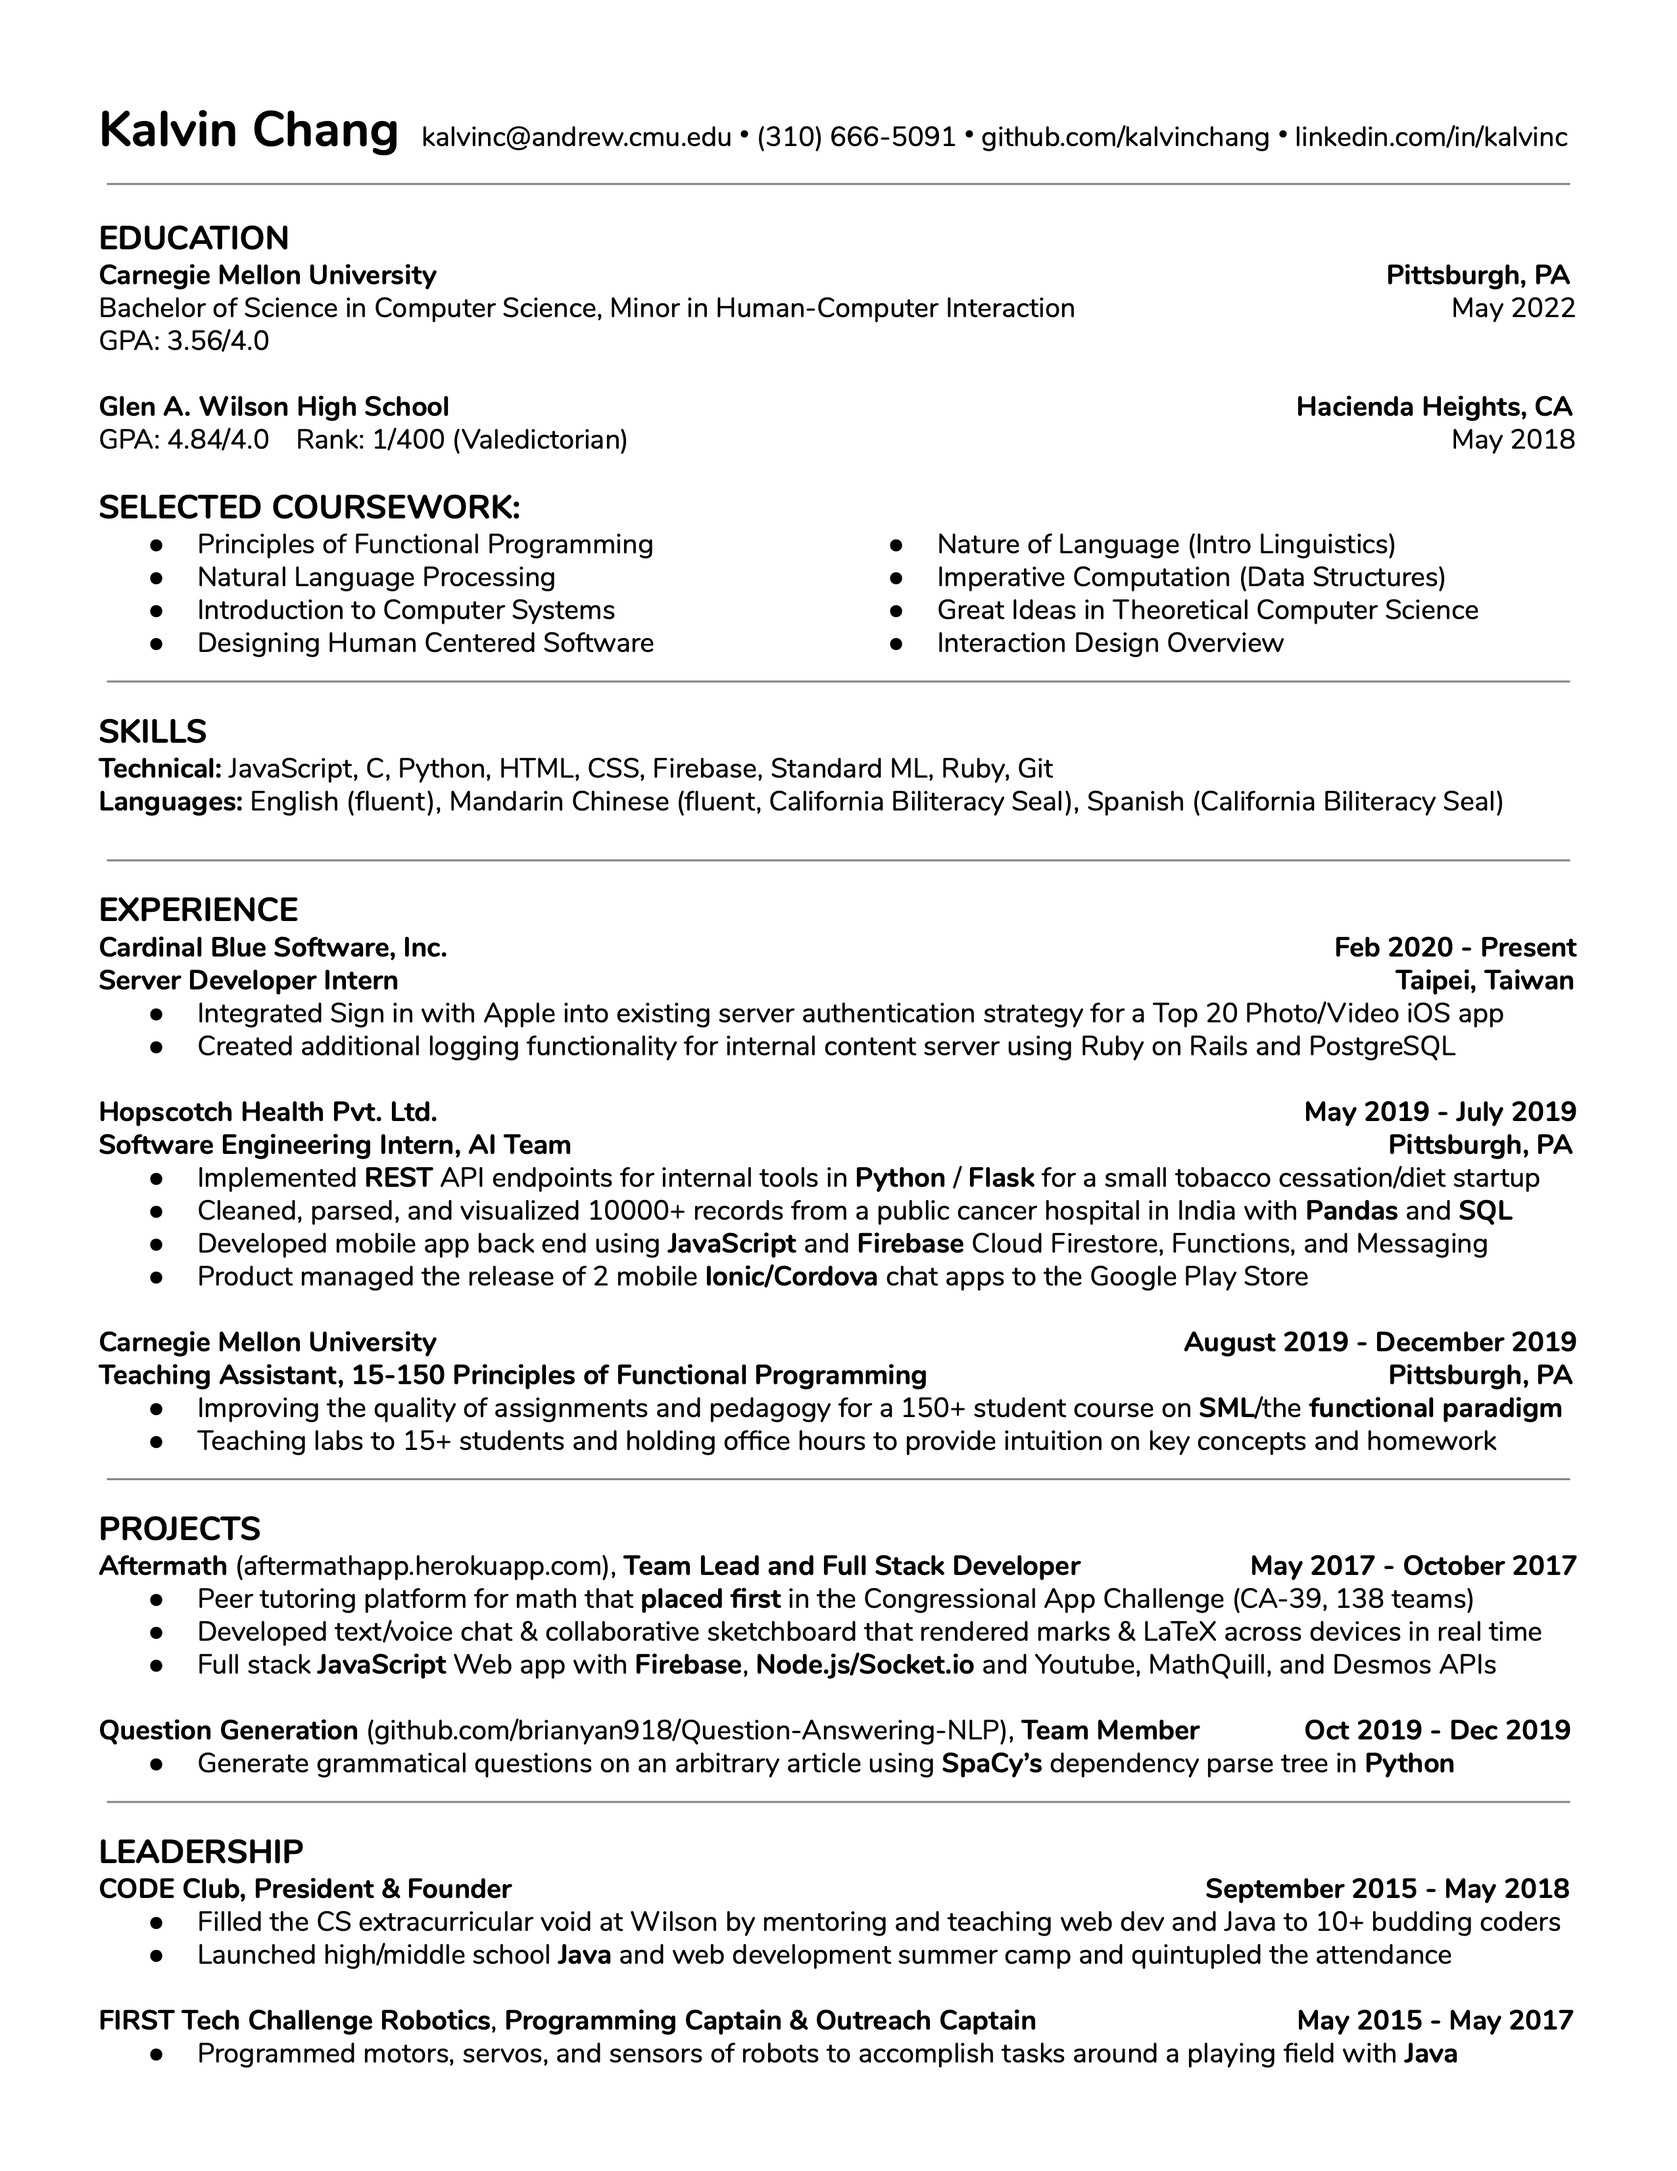
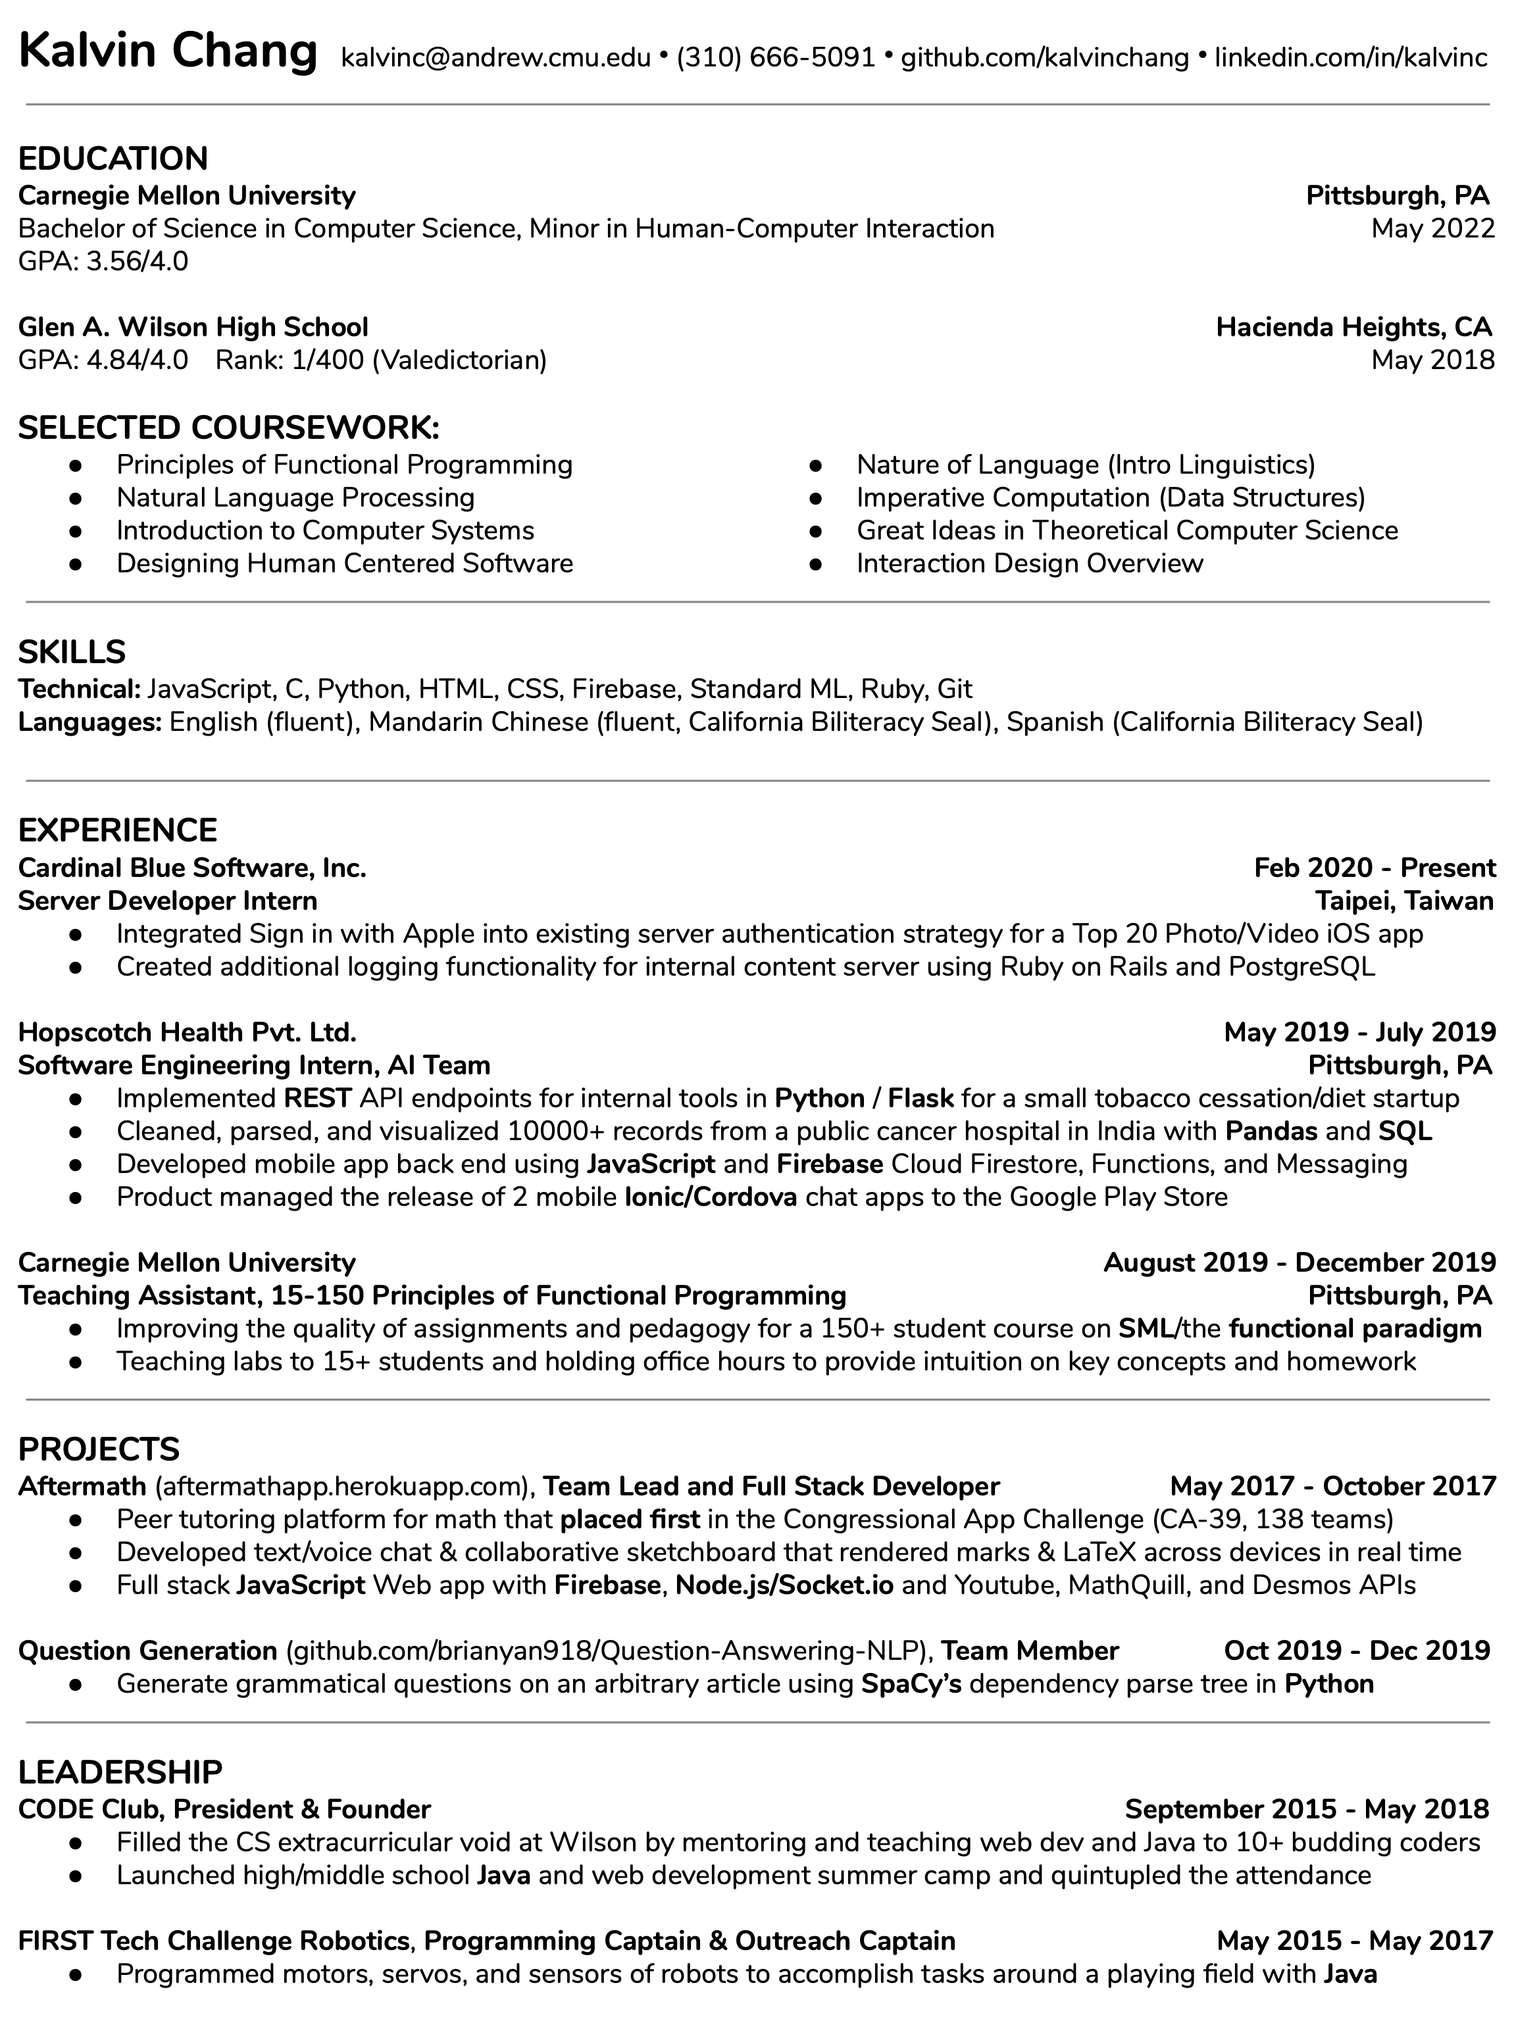
fix resume image position + size

Changed region(s): [[0.0, 0.0, 1.0, 0.999], [0.4375, 0.0937, 0.4688, 0.1561], [0.875, 0.9678, 0.9062, 0.999]]

diff --git a/src/layouts/resume.js b/src/layouts/resume.js
@@ -16,7 +16,7 @@ const AboutPage = (props) => {
     }
     resumePng: file(relativePath: {eq: "resume.png"}) {
       childImageSharp {
-        fluid(maxWidth: 463, maxHeight: 600) {
+        fluid(maxWidth: 450, maxHeight: 600) {
           ...GatsbyImageSharpFluid
         }
       }
@@ -69,7 +69,11 @@ const AboutPage = (props) => {
             </Link>
           </div>
         </div>
-        <Img fluid={data.resumePng.childImageSharp.fluid} id="resume" alt="My resume"></Img>
+        <div id="resume">
+          <Link to={data.resumePdf.publicURL}>
+            <Img fluid={data.resumePng.childImageSharp.fluid}alt="My resume"></Img>
+          </Link>
+        </div>
       </>
     }
     right={

diff --git a/src/components/layout.css b/src/components/layout.css
@@ -168,20 +168,24 @@ ul {
 /* resume page */
 
 #resume {
-  width: 200px;
-  height: 400px;
+  position: relative;
+  top: -2.5vh;
+  margin: 0 auto;
+  width: 31vw;
+  height: 55vh;
 }
 
 .download-link {
   height: 4.32vw;
   width: 6vw;
   position: absolute;
-  right: 2vw;
+  right: 0;
 }
 
 .download {
   width: 4.32vw;
   height: 6vw;
+  z-index: 100;
 }
 
 /* about page */
